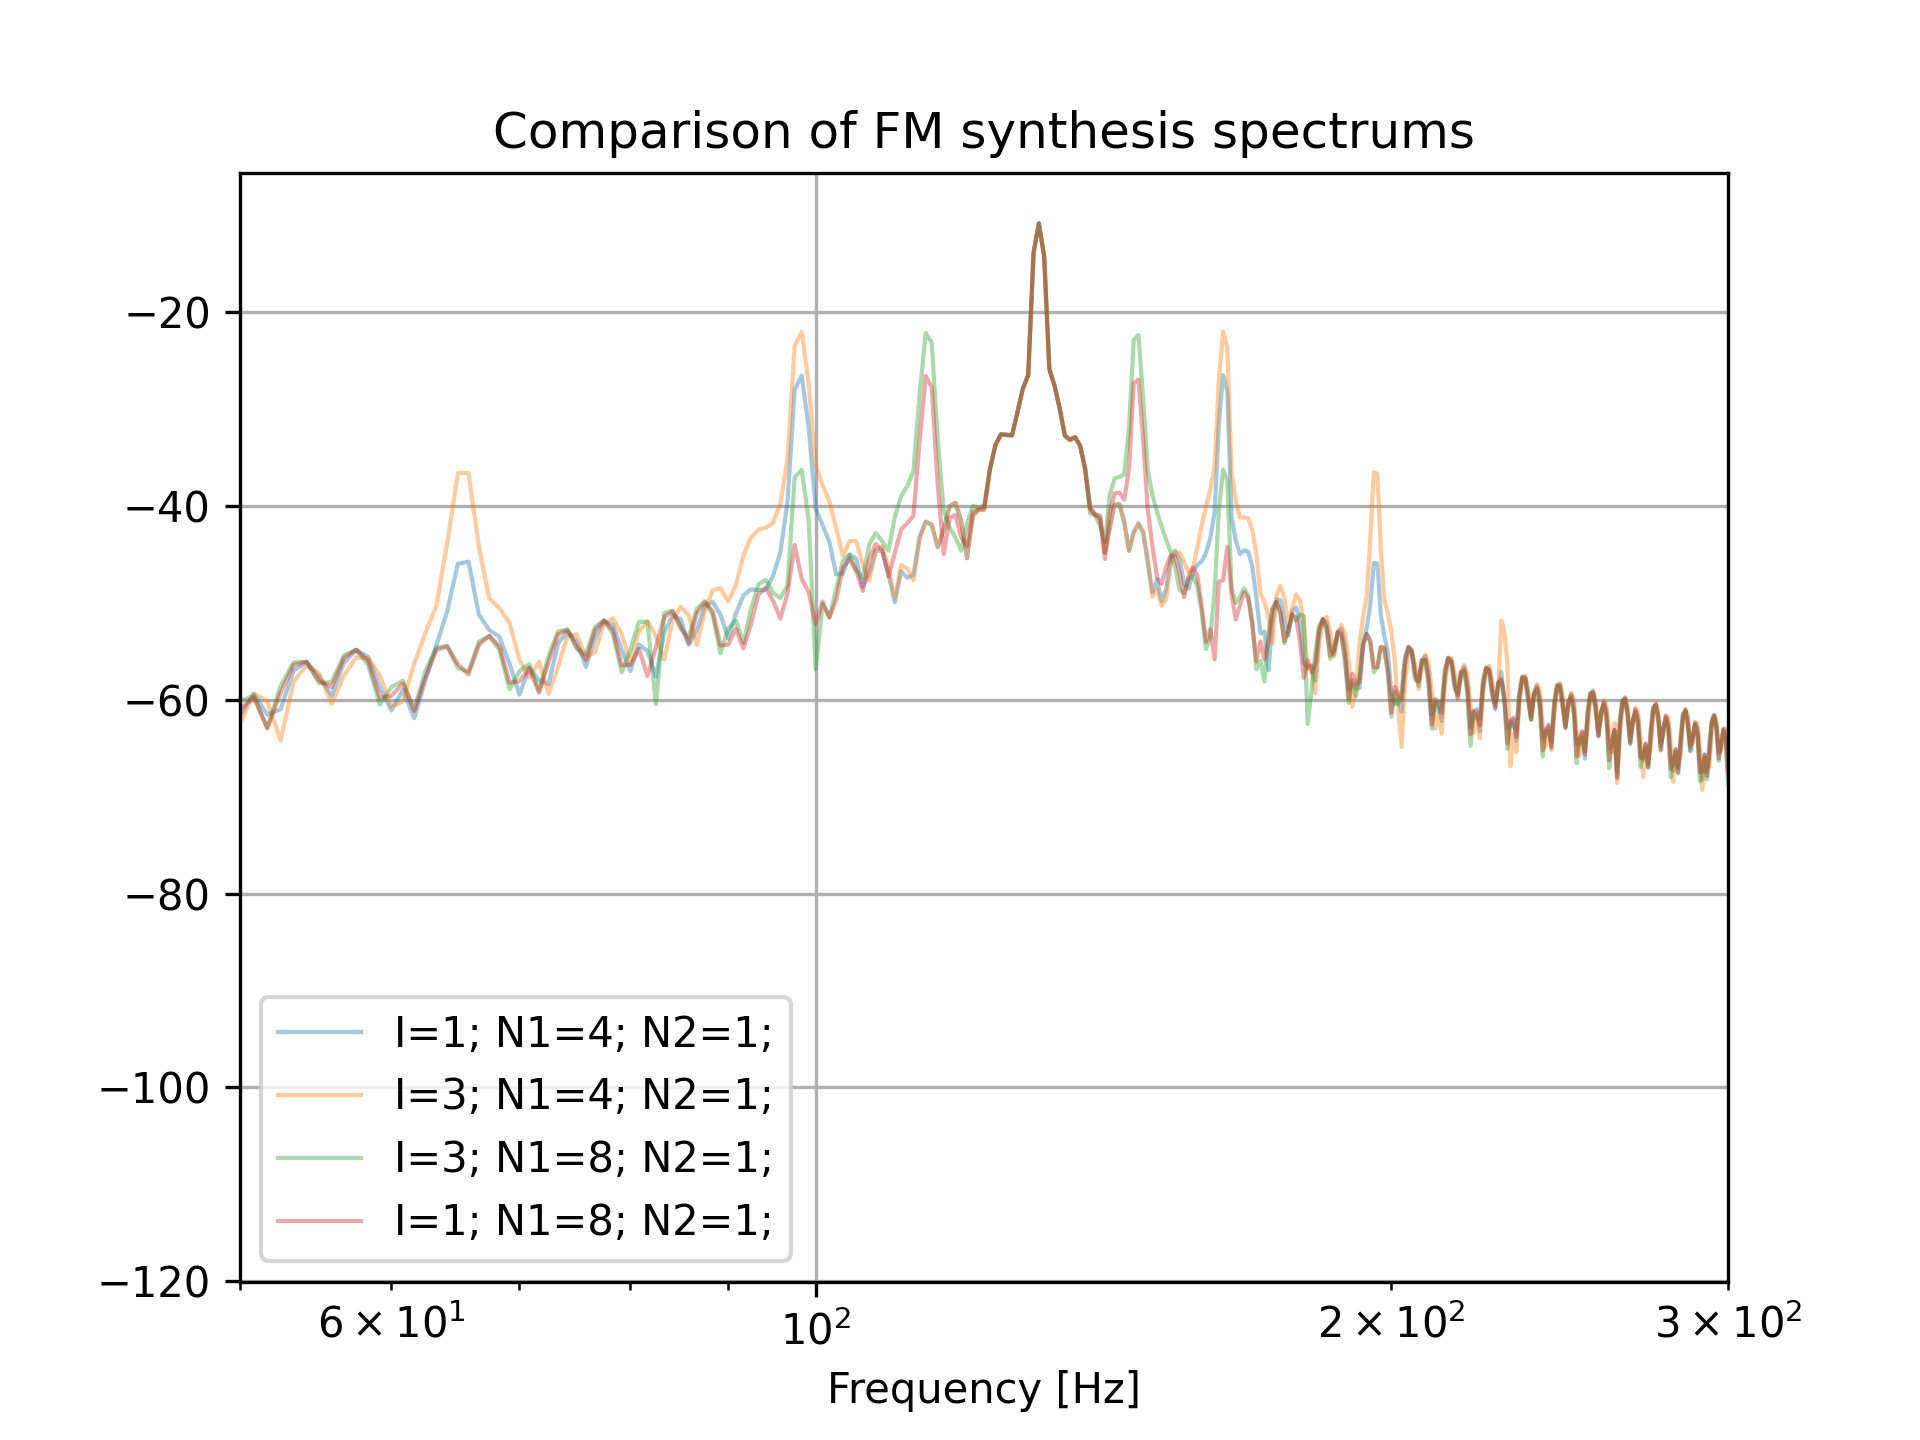
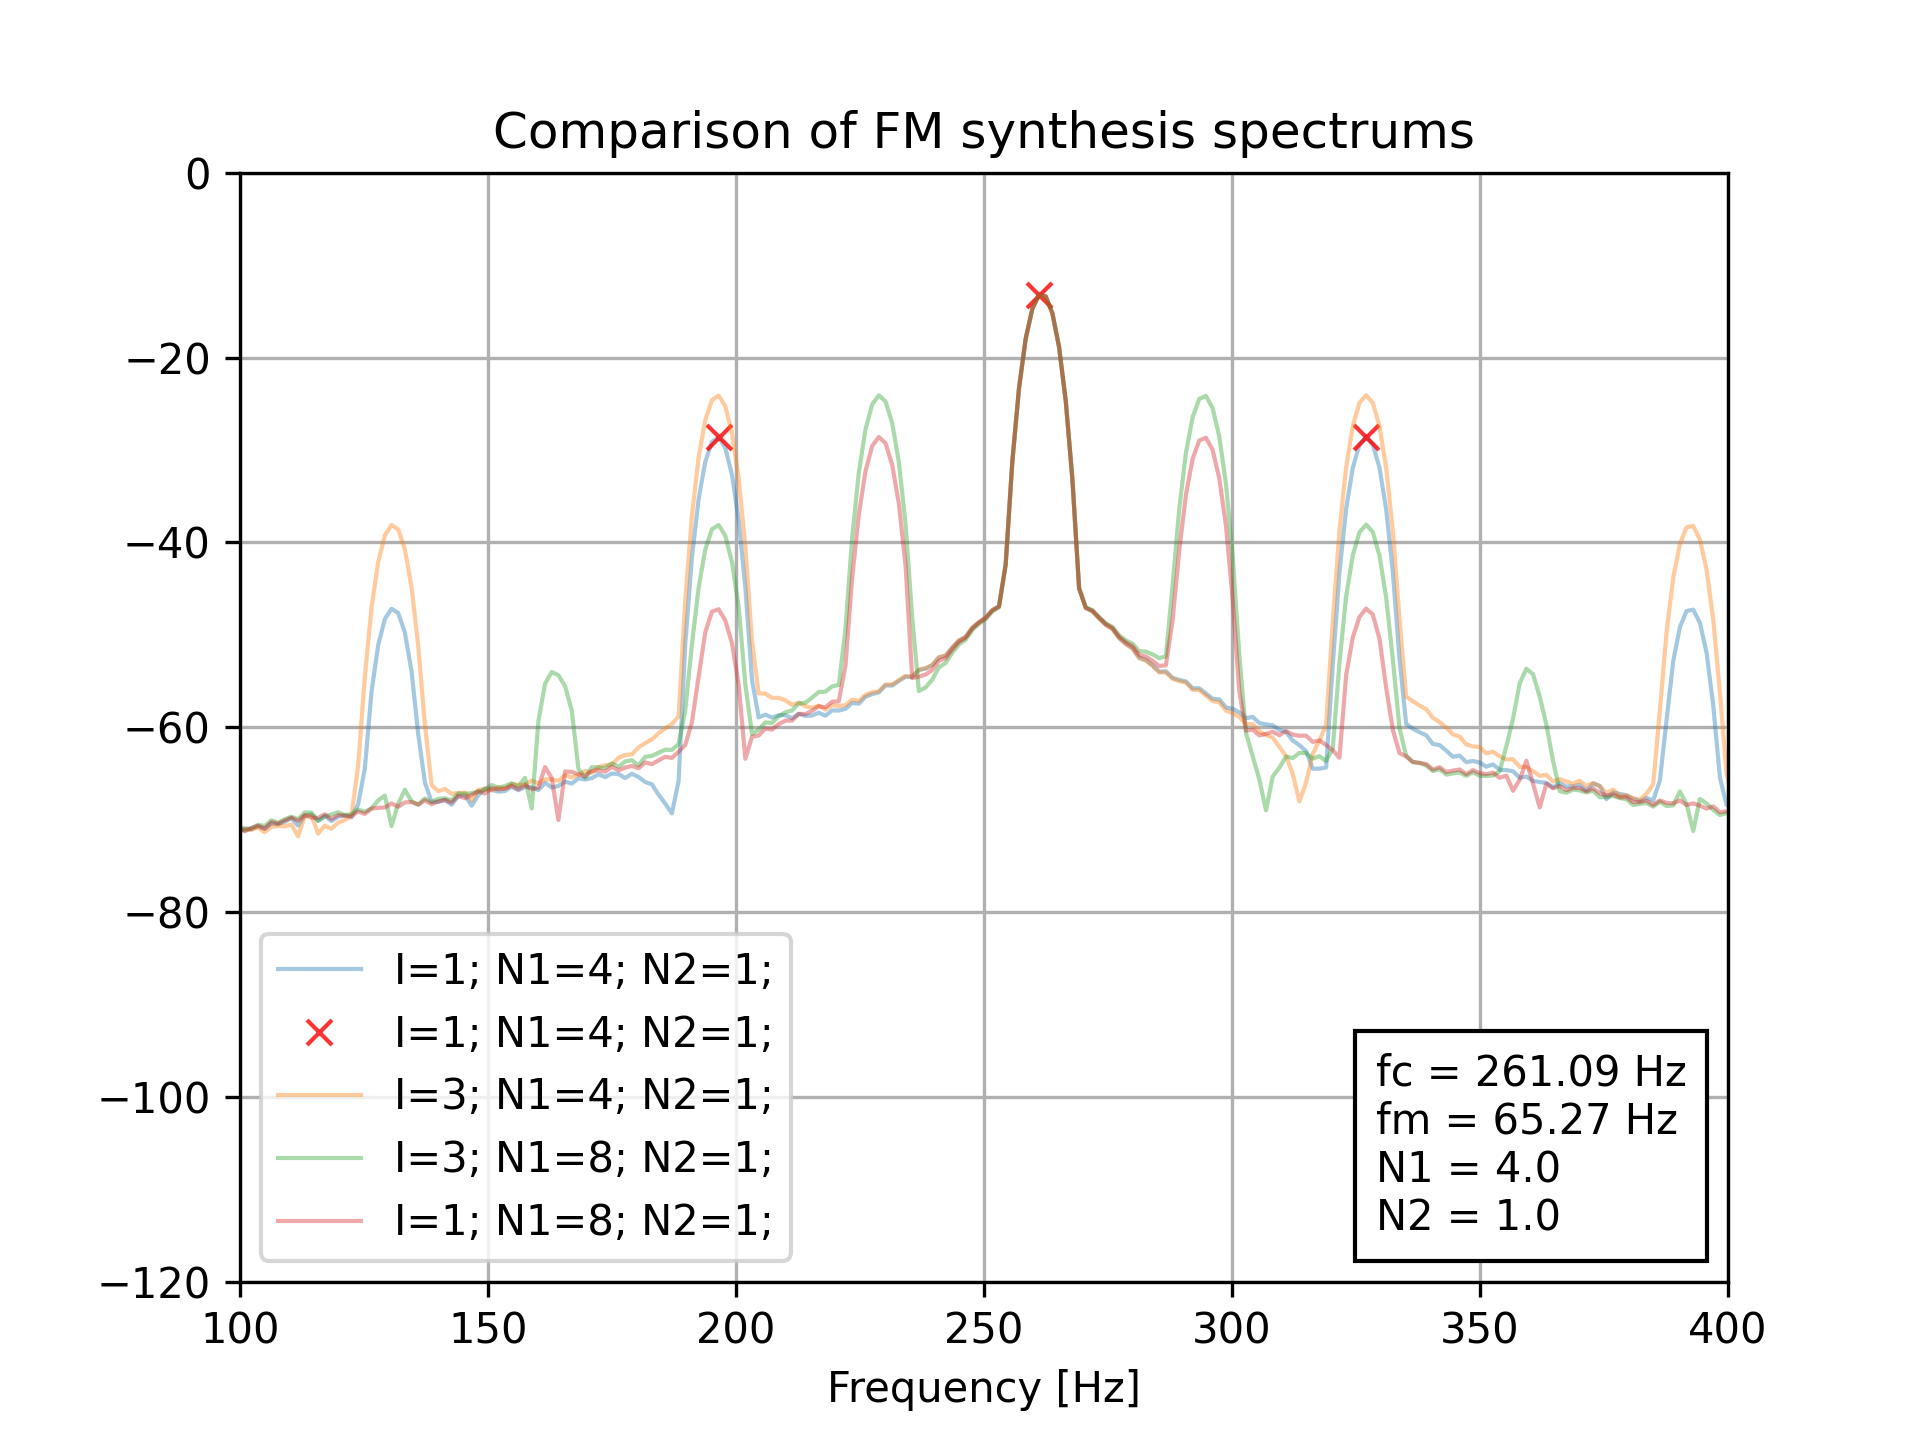
La gráfica de comparación FM ahora detecta picos y estima parametros

diff --git a/scripts/plot-fm.py b/scripts/plot-fm.py
@@ -3,11 +3,26 @@ import re
 
 import matplotlib.pyplot as plt
 import numpy as np
+from matplotlib.offsetbox import AnchoredText
 from parse import parse
 from scipy import signal
 from scipy.fft import fft
 
 from config import *
+
+
+# Show peaks
+PEAK_ESTIMATION = True
+
+# Number of peaks to find
+N_PEAKS = 3
+
+# Plot where the peaks are found
+PEAKS_PLOT = 0
+
+# Left and right frequencies for the plot
+F_LEFT = 100
+F_RIGHT = 400
 
 
 datafile_regex = r'^fm-\d+-\d+-\d+-data.txt$'
@@ -29,26 +44,83 @@ ir = int(SAMPLING_FREQ*0.6)
 
 t = np.linspace(0, (ndata - 1)/SAMPLING_FREQ, ndata)
 
-# Segur que hi han maneres millors, pero ho vull fer rapid
-window = signal.windows.hamming(ir - il)
-data_fft = [fft(np.multiply(d[il:ir], window)) for d in data]
-data_fft = [10*np.log10(np.abs(d)) for d in data_fft]
+# Next power of two as NFFT
+nfft = 2**(ir - il - 1).bit_length()
 
-f = np.linspace(0, SAMPLING_FREQ/2, len(data_fft[0]))
+# Window for the signal
+window = signal.windows.kaiser(ir - il, 16)
+# window = np.ones(ir-il)
+# window = signal.windows.hamming(ir-il)
+
+# Compute FFT
+data_fft = [fft(np.multiply(d[il:ir], window), n=nfft) for d in data]
+data_fft = [10*np.log10(np.abs(d)) for d in data_fft]
+f = np.linspace(0, SAMPLING_FREQ, nfft)
+
+# Find indices corresponding to F_LEFT and F_RIGHT
+il = np.argmin(np.abs(f - F_LEFT))
+ir = np.argmin(np.abs(f - F_RIGHT))
 
 # Actual graphing (or is it plotting, idk) code
 lwidth = 1.0
 
+fig, ax = plt.subplots()
+plot_type = ax.plot
 for i in range(ndata):
     _, I, N1, N2 = parse('{}fm-{}-{}-{}-data.txt', datafiles[i])
-    plt.semilogx(f, data_fft[i], linewidth=lwidth, alpha=0.4, label=f'I={I}; N1={N1}; N2={N2};')
+    plot_type(f, data_fft[i], linewidth=lwidth, alpha=0.4, label=f'I={I}; N1={N1}; N2={N2};')
 
-plt.xlim(50, 300)
-plt.xlabel('Frequency [Hz]')
-plt.grid()
+    # Find peaks of the specified plot
+    if PEAK_ESTIMATION and i == PEAKS_PLOT:
+        # Make mask array for the desired search area
+        scale = 1.5*np.max(np.abs(data_fft))
+        bound = np.arange(nfft)
+        bound = scale*(2*(bound >= il)*(bound <= ir) - 1) 
 
-plt.title('Comparison of FM synthesis spectrums')
-plt.legend(loc='lower left')
+        # Find the first N_PEAKS with max value
+        peaks, props = signal.find_peaks(data_fft[i], height=(None, bound))
+
+        # Sort peaks by peak value
+        peak_val = [x for x in zip(peaks, data_fft[i][peaks])]
+        peak_val.sort(key=lambda x: x[1], reverse=True)
+        peak_val = peak_val[:N_PEAKS]
+
+        peaks, val = zip(*peak_val)
+        peaks = np.array(peaks)
+
+        # Calculate estimations
+        fc = SAMPLING_FREQ * peaks[0] / nfft
+        fl = SAMPLING_FREQ * peaks[1] / nfft
+        fr = SAMPLING_FREQ * peaks[2] / nfft
+        fm = 0.5*np.abs(fl - fr)
+
+        if fc > fm:
+            N1_est = fc / fm
+            N2_est = 1
+
+        else:
+            N1_est = 1
+            N2_est = fm / fc
+
+        box_text = '\n'.join([f'fc = {fc:.2f} Hz',
+                              f'fm = {fm:.2f} Hz',
+                              f'N1 = {N1_est:.1f}',
+                              f'N2 = {N2_est:.1f}'])
+        print(box_text)
+
+        plot_type(f[peaks], data_fft[i][peaks], 'x', c='red', alpha=0.8, label=f'I={I}; N1={N1}; N2={N2};')
+
+        # Add text box with estimations
+        text_box = AnchoredText(box_text, frameon=True, loc=4, pad=0.5)
+        plt.gca().add_artist(text_box)
+
+ax.set_xlim(F_LEFT, F_RIGHT)
+ax.set_ylim(-120, 0)
+ax.set_xlabel('Frequency [Hz]')
+ax.grid()
+
+ax.set_title('Comparison of FM synthesis spectrums')
+ax.legend(loc='lower left')
 
 savefile = f'{WORKDIR}/img/fm-comparison.png'
 print(f'Saving plot as: {savefile}')

diff --git a/README.md b/README.md
@@ -368,12 +368,15 @@ deberá venir expresado en semitonos.
   pueden ver similitudes. A partir de la posición de los picos se pueden obtener `fc` y `fm`, y con
   estimar `N1` y `N2`. También se aprecia que a mayor `I` mayores son los picos.
 
+  La gráfica generada corresponde a la primera nota del archivo [doremi.wav](work/doremi/doremi.wav), el Do
+  central, que tiene como frecuencia 261.63 Hz.
+
   ![Chowning Art. Figure 1](img/chowning-fig1.png)
 
   ![FM FFT comparison](img/fm-comparison.png)
 
-  **TODO: hacer que el script detecte los picos para encontrar fc y fm (para comparar con params), luego
-  esimar los parametros e insertarlos en algun lugar de este apartado**
+  A partir de la posición de los picos de la gráfica se ha estimado fc y fm, partir de estos N1 y N2.
+  Como se puede ver estos coinciden con los parametros usados para generar el señal.
 
   *Solo se esta mostrando la parte 'interesante' del espectro para apreciar mas los detalles.*
   
